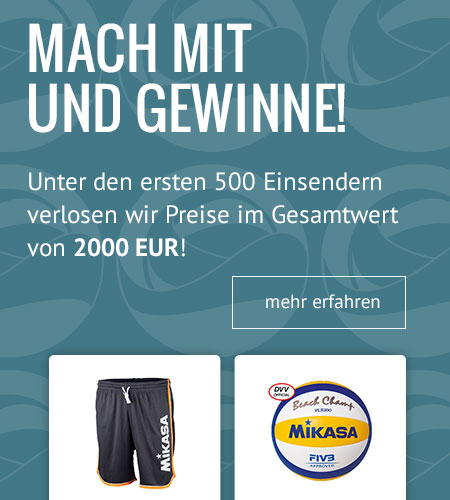
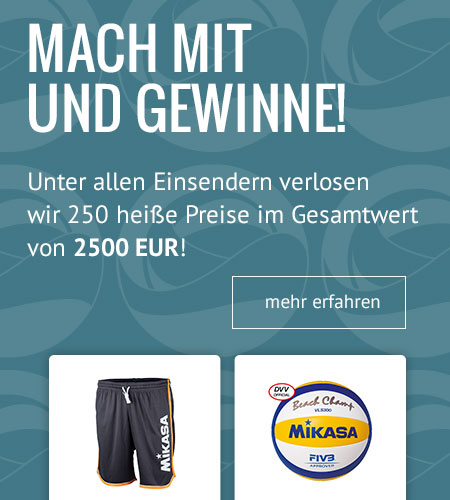
added new contests teaser, made cookie disclaimer on FF work

Changed region(s): [[0.0622, 0.33, 0.9333, 0.45], [0.1867, 0.48, 0.2489, 0.51]]

diff --git a/public/js/app.js b/public/js/app.js
@@ -30493,8 +30493,8 @@ var render = function() {
           "a",
           {
             staticClass:
-              "beachcourt-item__favorite beachcourt-item__favorite--is-favorited tipso-favorite",
-            attrs: { href: "#", "data-tipso": "Aus Favoriten entfernen" },
+              "beachcourt-item__favorite beachcourt-item__favorite--is-favorited",
+            attrs: { href: "#" },
             on: {
               click: function($event) {
                 $event.preventDefault()
@@ -30507,8 +30507,8 @@ var render = function() {
       : _c(
           "a",
           {
-            staticClass: "beachcourt-item__favorite tipso-favorite",
-            attrs: { href: "#", "data-tipso": "Zu Favoriten hinzufügen" },
+            staticClass: "beachcourt-item__favorite",
+            attrs: { href: "#" },
             on: {
               click: function($event) {
                 $event.preventDefault()

diff --git a/resources/assets/js/components/Favorite.vue b/resources/assets/js/components/Favorite.vue
@@ -1,9 +1,9 @@
 <template>
     <span>
-        <a href="#" v-if="isFavorited" @click.prevent="unFavorite(beachcourt)" class="beachcourt-item__favorite beachcourt-item__favorite--is-favorited tipso-favorite" data-tipso="Aus Favoriten entfernen">
+        <a href="#" v-if="isFavorited" @click.prevent="unFavorite(beachcourt)" class="beachcourt-item__favorite beachcourt-item__favorite--is-favorited">
             <span class="" data-feather="heart"></span>
         </a>
-        <a href="#" v-else @click.prevent="favorite(beachcourt)" class="beachcourt-item__favorite tipso-favorite" data-tipso="Zu Favoriten hinzufügen">
+        <a href="#" v-else @click.prevent="favorite(beachcourt)" class="beachcourt-item__favorite">
             <span class="" data-feather="heart"></span>
         </a>
     </span>

diff --git a/resources/assets/sass/app.scss b/resources/assets/sass/app.scss
@@ -8,10 +8,12 @@
 .tipso_title, .tipso_content {font-family: 'PT Sans', sans-serif; font-size: .875rem;}
 
 .beachcourt-detail__favorite {
-	position: relative;
+	position: absolute;
+	top: 30px;
+	right: 20px;
+	z-index: 1;
 	width: 2.5rem;
 	height: 2.5rem;
-	float: right;
 }
 .beachcourt-detail__favorite .beachcourt-item__favorite {
 	width: 2.5rem;

diff --git a/public/css/app.css b/public/css/app.css
@@ -25,10 +25,12 @@
 }
 
 .beachcourt-detail__favorite {
-  position: relative;
+  position: absolute;
+  top: 30px;
+  right: 20px;
+  z-index: 1;
   width: 2.5rem;
   height: 2.5rem;
-  float: right;
 }
 
 .beachcourt-detail__favorite .beachcourt-item__favorite {

diff --git a/resources/views/frontend/beachcourt/show.blade.php b/resources/views/frontend/beachcourt/show.blade.php
@@ -278,6 +278,14 @@
       <div class="column column--12 column--m-6 -spacing-a flex">
         @if( $filecount != 0 )
           <div class="image-slide">
+          	@if(Auth::user())
+          	  <div class="beachcourt-detail__favorite">
+          	    <favorite
+          	    :beachcourt={{ $beachcourt->id }}
+          	    :favorited={{ $beachcourt->favorited() ? 'true' : 'false' }}
+          	    ></favorite>
+          	  </div>
+          	@endif
             <div class="owl-carousel owl-carousel--detailpage">
               @for ($i = 1; $i <= $filecount; $i++)
                 <img class="owl-lazy"
@@ -291,9 +299,17 @@
           </div>
         @else
        		<div class="image-missing" style="position: relative;">
+       			@if(Auth::user())
+       			  <div class="beachcourt-detail__favorite">
+       			    <favorite
+       			    :beachcourt={{ $beachcourt->id }}
+       			    :favorited={{ $beachcourt->favorited() ? 'true' : 'false' }}
+       			    ></favorite>
+       			  </div>
+       			@endif
        			<img class="progressive__img" src="https://maps.googleapis.com/maps/api/staticmap?center={{$beachcourt->latitude}},{{$beachcourt->longitude}}&zoom=19&scale=2&size=500x350&maptype=satellite&format=jpg&visual_refresh=true&key=AIzaSyAXZ7GDxm_FJ5g5yVdkawywTg7swA1rVeE" data-progressive="https://maps.googleapis.com/maps/api/staticmap?center={{$beachcourt->latitude}},{{$beachcourt->longitude}}&zoom=19&scale=2&size=1000x700&maptype=satellite&format=jpg&visual_refresh=true&key=AIzaSyAXZ7GDxm_FJ5g5yVdkawywTg7swA1rVeE" alt="Beachvolleyballfeld in {{$beachcourt->postalCode}} {{$beachcourt->city}}">
 
-       			<p class="-typo-copy -text-color-gray-01" style="position: absolute; top: 0; left: 0; background: rgba(255,255,255,.9); padding: 10px;">
+       			<p class="-typo-copy -text-color-gray-01" style="position: absolute; bottom: 0; left: 0; background: rgba(255,255,255,.9); padding: 10px;">
        				Von diesem Beachfeld haben wir noch keine Detailbilder vorliegen. Bitte hilf uns, den Service zu verbessern, indem du uns Fotos des Beachfelds <a href="{{ URL::route('beachcourts.upload', array('cityslug'=>strtolower($beachcourt->city),'latitude'=>$beachcourt->latitude,'longitude'=>$beachcourt->longitude) )}}" class="link-text">schickst</a>.
        			</p>
        		</div>
@@ -307,15 +323,6 @@
       </div>
 
       <div class="column column--12 column--m-6 -spacing-a">
-        @if(Auth::user())
-          <div class="beachcourt-detail__favorite">
-            <favorite
-            :beachcourt={{ $beachcourt->id }}
-            :favorited={{ $beachcourt->favorited() ? 'true' : 'false' }}
-            ></favorite>
-          </div>
-        @endif
-
         <h4 class="-typo-headline-04 -text-color-petrol">Betreiber des Feldes</h4>
         <p class="-typo-copy -text-color-gray-01 -spacing-d">
           {{ $beachcourt->operator }}<br>

diff --git a/resources/views/frontend/beachcourt/upload.blade.php b/resources/views/frontend/beachcourt/upload.blade.php
@@ -22,7 +22,8 @@
 		<div class="row">
 			<div class="columm column--12">
 				<h2 class="title-page__title">Schick uns Bilder</h2>
-				<p class="title-page__subtitle">Bitte hilf uns, den Service zu verbessern, indem du uns Fotos des Beachfelds schickst. Unter den ersten 500 Einsendern verlosen wir <span class="-typo-copy -typo-copy--bold">100 Mikasa-Beachpakete</span> im Gesamtwert von 2000 EUR!</p>
+				<p class="title-page__subtitle">Bitte hilf uns, den Service zu verbessern, indem du uns Fotos des Beachfelds schickst. Unter allen Einsendern von vollständigen Foto-Uploads* und neuen Feldern, die noch nicht in unserer Datenbank verzeichnet sind, verlosen wir verlosen wir <span class="-typo-copy -typo-copy--bold">250 heiße Preise</span></p>
+				<p class="-typo-copy -typo-copy--small -text-color-gray-01 -spacing-d">*nur von Feldern, bei denen noch keine Detailbilder vorliegen</p>
 			</div>
 		</div>
 		
@@ -70,7 +71,7 @@
 
 		<div class="row">
 			<div class="column column--12 -spacing-d">
-				<p class="-typo-copy -text-color-gray-01">Die Bilder sollten eine Auflösung von mindestens 600 x 400 px haben</p>
+				<p class="-typo-copy -text-color-gray-01">Die Bilder sollten eine Mindestbreite von 1000px haben</p>
 			</div>
 		</div>
 
@@ -103,7 +104,7 @@
 		  		  <input type="hidden" class="input-toggle__hidden" name="contestParticipation" value="0">
 		  		  <input type="checkbox" class="input-toggle__field contestParticipation" name="contestParticipation" value="0">
 		  		  <span class="input-toggle__switch"></span>
-		  		  <span class="input-toggle__label">Ja, ich möchte an der Verlosung der 200 Preise teilnehmen</span>
+		  		  <span class="input-toggle__label">Ja, ich möchte an der Verlosung der 250 heißen Preise teilnehmen</span>
 		  		</label>
 		  	</div>
 		  	<div class="column column--12 column--s-6">
